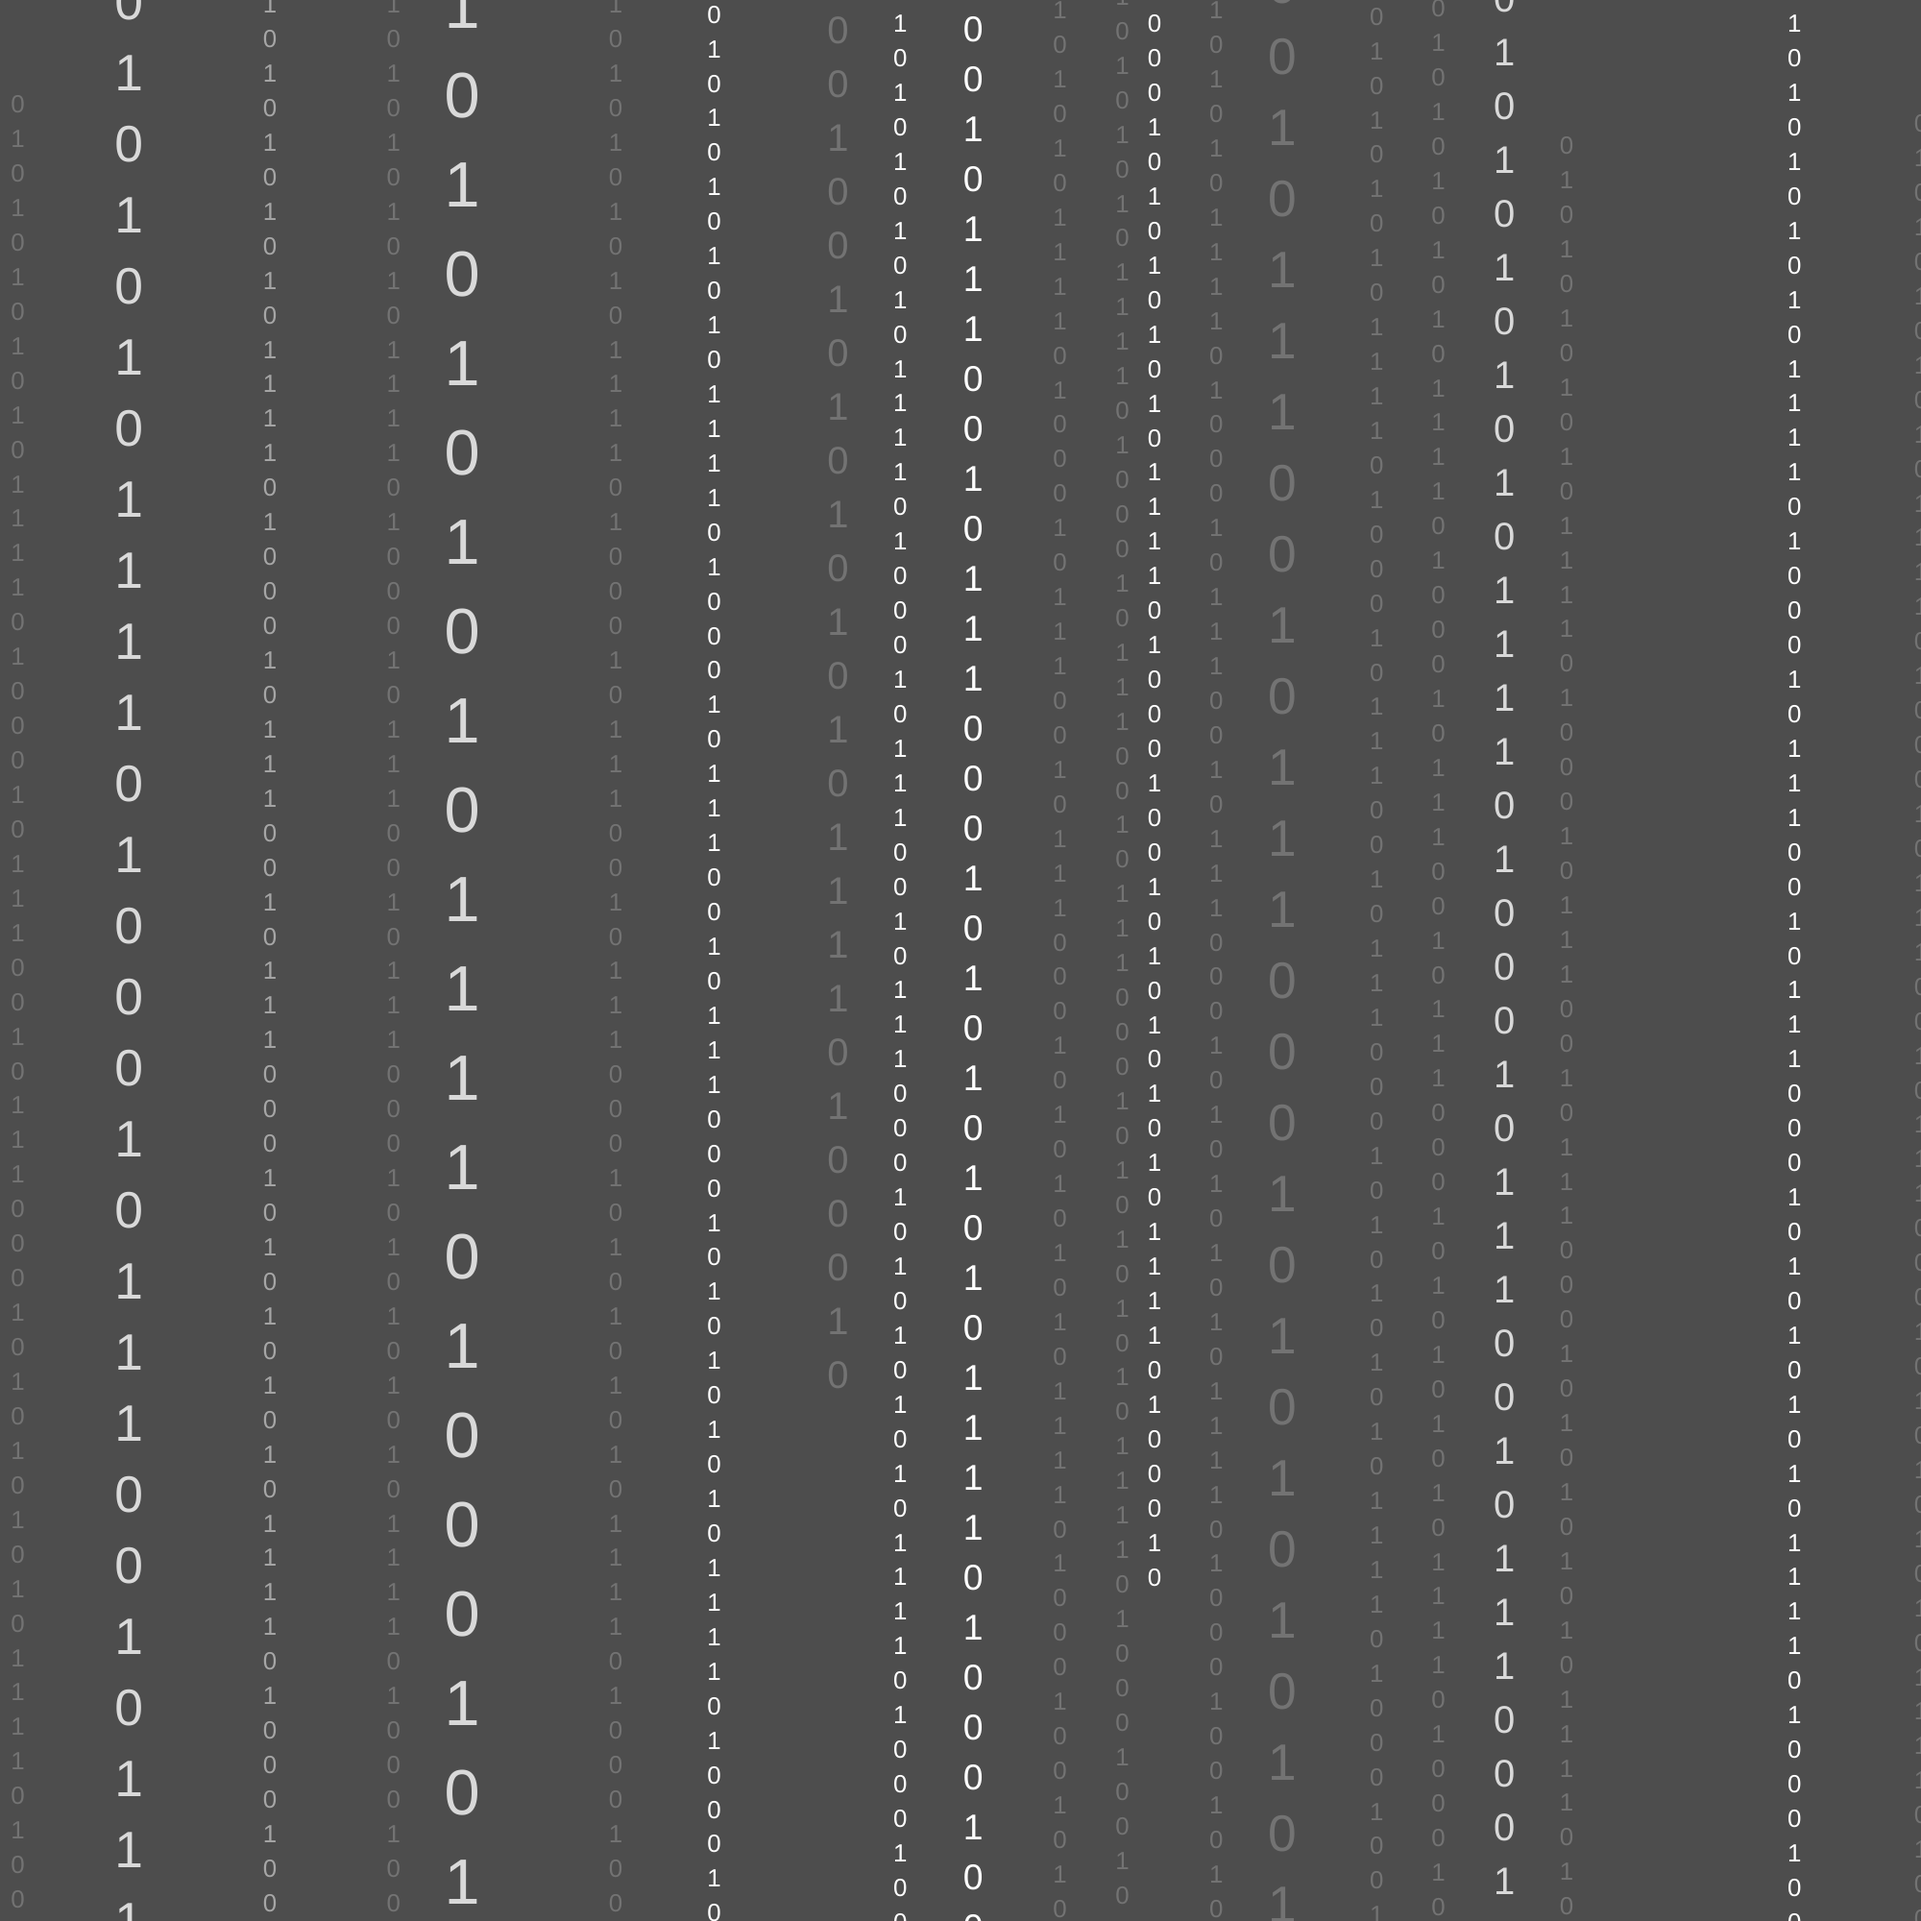
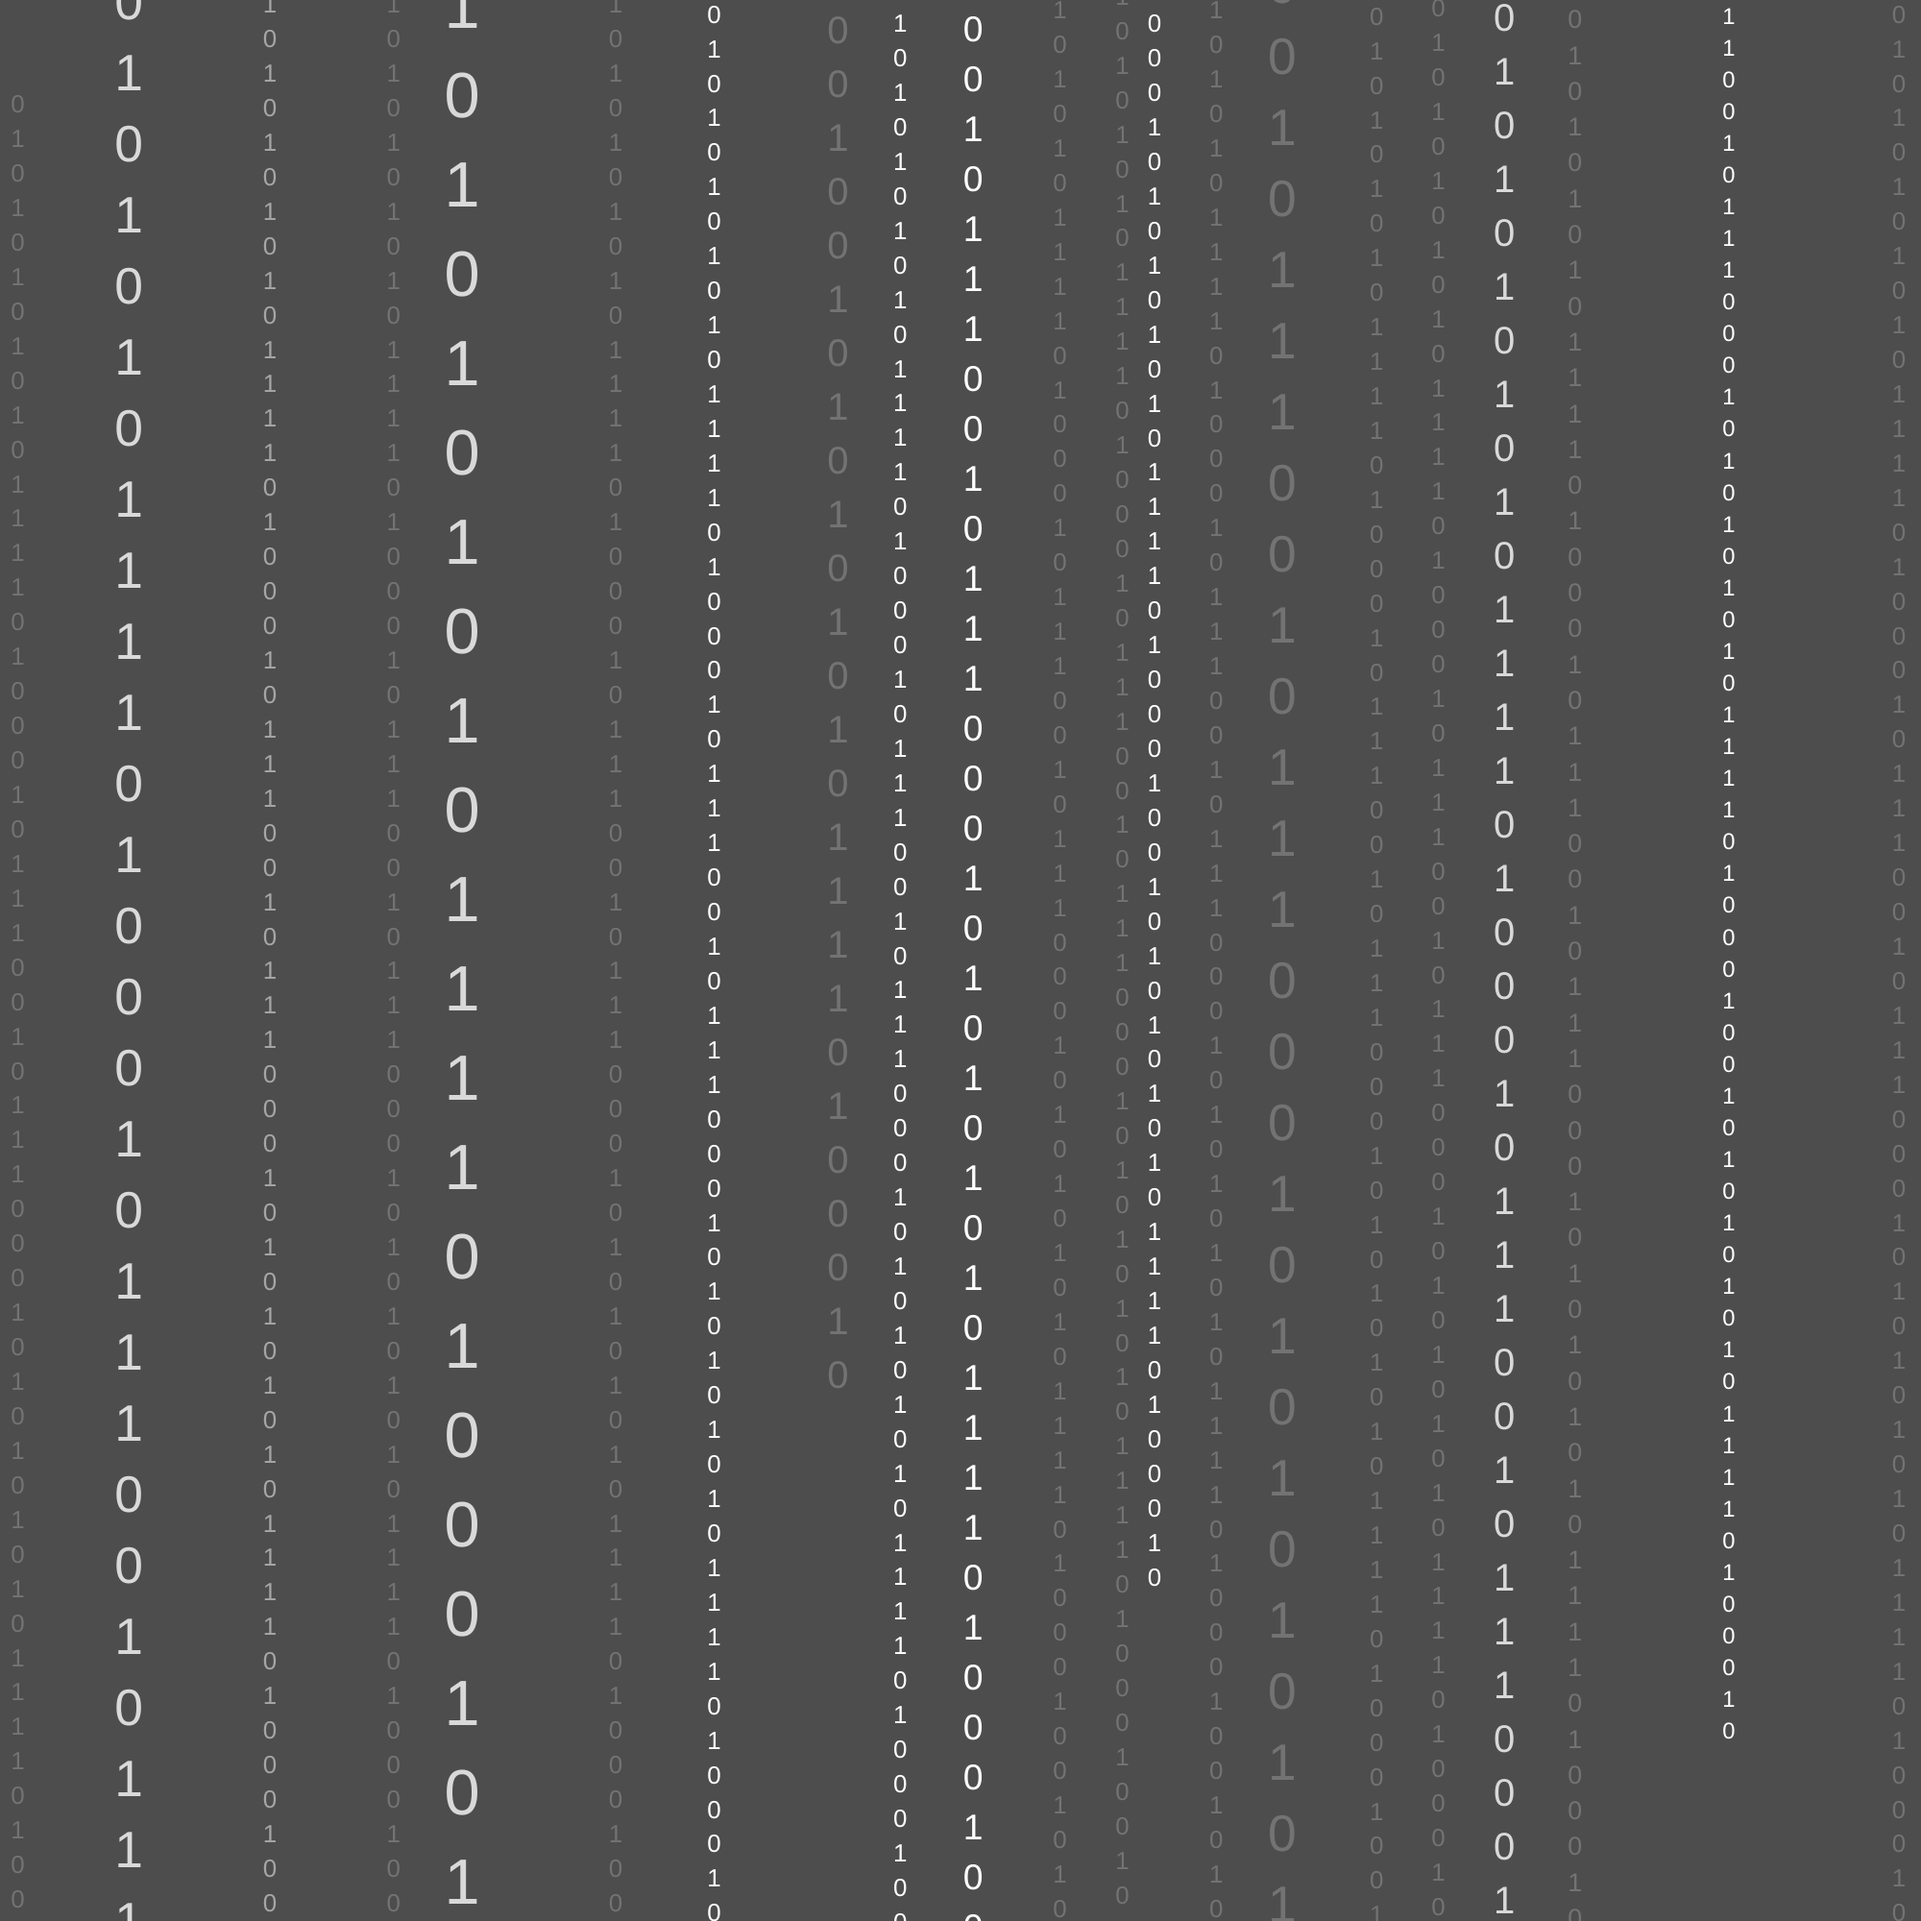
fixed background and finished styling landing page

diff --git a/assets/css/style.css b/assets/css/style.css
@@ -47,7 +47,7 @@ html, body
 }
 
 body {
-    background-image: url(".assets/img/background-image.png");
+    background: url(../img/background-index.png) fixed no-repeat;
 }
 
 h1 {
@@ -71,4 +71,32 @@ img {
 
 
 /*----------------------------------  Sitewide  ------------------------------------------*/
+
+.text-box {
+    width: 70%;
+    margin: 30px auto;
+    text-align: center;
+    padding: 20px;
+    border-style: solid;
+    border-width: 2px;
+    border-color: var(--btc-orange);
+    border-radius: 15px;
+    background-color: var(--btc-grey);
+}
+
+.button-box {
+    display: flex;
+    justify-content: center;
+    align-items: center;
+    height: 200px;
+}
+
+.button {
+    width: 100px;
+    text-align: center;
+    font-weight: 800;
+    color: var(--btc-grey);
+    border-radius: 5px;
+    background-color: var(--btc-orange);
+}
 

diff --git a/index.html b/index.html
@@ -9,11 +9,12 @@
     </head>
     <body>
 <!--======================================    START OF PAGE    ======================================-->
-        <div id="welcome-box">
-            <p>Welcome to The Blockchain Quiz.<br><br>Shall we begin?</p>
+        <div id="welcome-box" class="text-box">
+            <p>Welcome to<br><i>The Blockchain Quiz</i>.<br><br>Shall we begin?</p>
         </div>
-        <button id="begin-quiz" class="orange" type="button">BEGIN
-        </button>
+        <div class="button-box">
+            <button class="button" type="button">BEGIN</button>
+        </div>
     </body>
     <footer>
     </footer>
